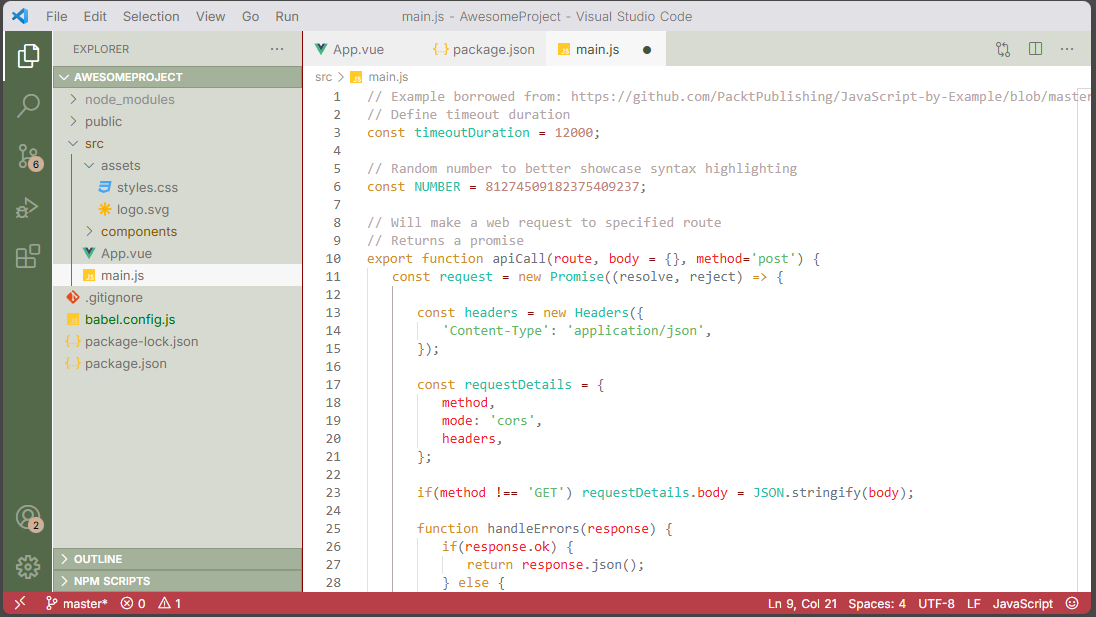
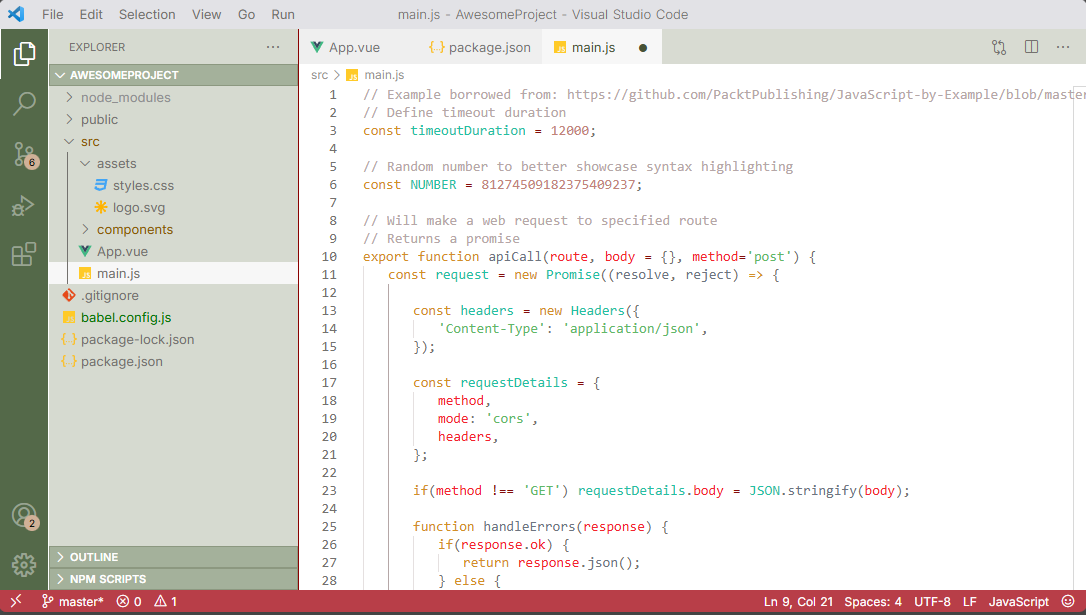
added picture to readme

diff --git a/README.md b/README.md
@@ -6,7 +6,7 @@ A festive, cozy light theme designed to bring the holiday cheer to your code edi
 
 Compatible with Jupyter Notebooks.
 
-
+![White Christmas Theme Screenshot of Preview code](images\screenshot.png)
 
 ## Installation
 **Search in VS Code**: Open Extensions (`Ctrl+Shift+X` or `Cmd+Shift+X`), search for "*White Christmas Theme*" and click **Install**.
@@ -15,5 +15,5 @@ Compatible with Jupyter Notebooks.
 
 
 ## Contributing
-Recolored icon is from [Flaticon]("https://www.flaticon.com/free-icons/christmas").
+Recolored icon is from [Flaticon](https://www.flaticon.com/free-icons/christmas).
 
